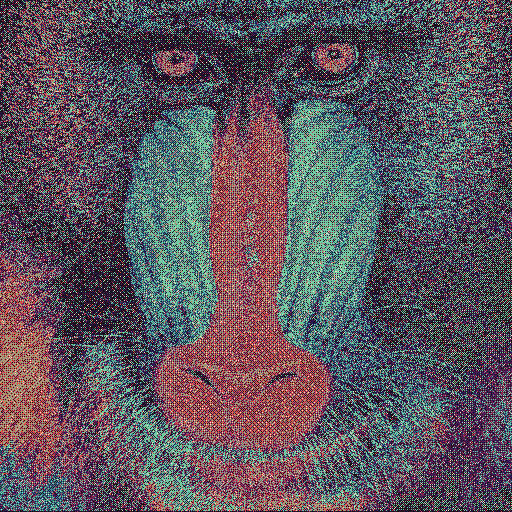
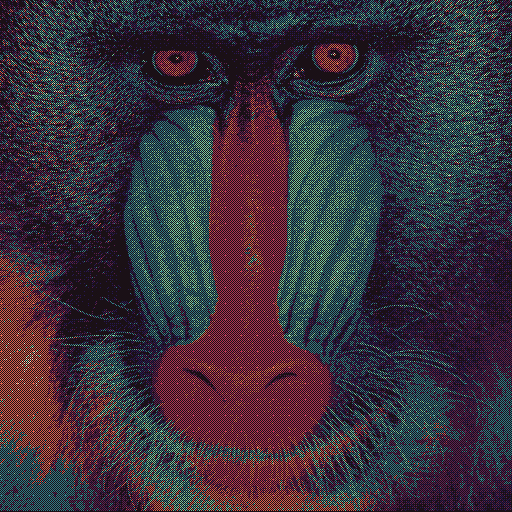
error diffusion: added serpentine dithering pattern, fixed bug where error-adjusted color would exceed 0-255 color range, added additional examples to READMDE

diff --git a/src/dither.cpp b/src/dither.cpp
@@ -168,7 +168,7 @@ void Dither::reduce(std::string name_mapping_method, std::string name_palette, b
     return;
 }
 
-void Dither::error_diffusion(std::string name_algorithm, std::string name_mapping_method, std::string name_palette, bool gamma_correction)
+void Dither::error_diffusion(std::string name_algorithm, std::string scan_pattern, std::string name_mapping_method, std::string name_palette, bool gamma_correction)
 {
     ErrorDiffusion error_diffusion = ErrorDiffusion(name_algorithm);
     Palette palette = Palette(name_palette);
@@ -194,42 +194,94 @@ void Dither::error_diffusion(std::string name_algorithm, std::string name_mappin
 
     for(std::size_t y = 0; y < image_height; y++)
     {
-        for(std::size_t x = 0; x < image_width; x++)
+        // alternate direction on odd rows
+        if(scan_pattern == "SERPENTINE" && y % 2 == 1)
         {
-            // set current pixel to nearest palette color (accounting for accumulated error)
-            Color color = image.get_pixel(x, y);
-
-            if(gamma_correction)
+            for(int x = image_width - 1; x >= 0; x--)
             {
-                color.to_linear(image.get_gamma());
-            }
-            
-            color.r += error_matrix[y][x][Color::INDEX_R];
-            color.g += error_matrix[y][x][Color::INDEX_G];
-            color.b += error_matrix[y][x][Color::INDEX_B];
+                // set current pixel to nearest palette color (accounting for accumulated error)
+                Color color = image.get_pixel(x, y);
 
-            Color palette_nearest;
-
-            palette_nearest = palette.nearest(color, name_mapping_method, color_range_image, color_range_palette, slope);
-
-            const std::vector<int> current_pixel_error = {color.r - palette_nearest.r, color.g - palette_nearest.g, color.b - palette_nearest.b};
-
-            for(std::size_t index_error = 0; index_error < error_diffusion.coordinates.size(); index_error++)
-            {
-                const std::size_t new_x = x + error_diffusion.coordinates[index_error].first;
-                const std::size_t new_y = y + error_diffusion.coordinates[index_error].second;
-
-                if(new_x < 0 || new_x >= image_width || new_y < 0 || new_y >= image_height)
+                if(gamma_correction)
                 {
-                    continue;
+                    color.to_linear(image.get_gamma());
+                }
+                
+                color.r += error_matrix[y][x][Color::INDEX_R];
+                color.g += error_matrix[y][x][Color::INDEX_G];
+                color.b += error_matrix[y][x][Color::INDEX_B];
+
+                color.r = std::clamp(color.r, 0, static_cast<int>(Color::CHANNEL_MAX));
+                color.g = std::clamp(color.g, 0, static_cast<int>(Color::CHANNEL_MAX));
+                color.b = std::clamp(color.b, 0, static_cast<int>(Color::CHANNEL_MAX));
+
+                Color palette_nearest;
+
+                palette_nearest = palette.nearest(color, name_mapping_method, color_range_image, color_range_palette, slope);
+
+                const std::vector<int> current_pixel_error = {color.r - palette_nearest.r, color.g - palette_nearest.g, color.b - palette_nearest.b};
+
+                for(std::size_t index_error = 0; index_error < error_diffusion.coordinates.size(); index_error++)
+                {
+                    const std::size_t new_x = x - error_diffusion.coordinates[index_error].first; // flip x when we are going backwards
+                    const std::size_t new_y = y + error_diffusion.coordinates[index_error].second;
+
+                    if(new_x < 0 || new_x >= image_width || new_y < 0 || new_y >= image_height)
+                    {
+                        continue;
+                    }
+
+                    error_matrix[new_y][new_x][Color::INDEX_R] += static_cast<int>(current_pixel_error[Color::INDEX_R] * error_diffusion.scalars[error_diffusion.coordinates[index_error]]);
+                    error_matrix[new_y][new_x][Color::INDEX_G] += static_cast<int>(current_pixel_error[Color::INDEX_G] * error_diffusion.scalars[error_diffusion.coordinates[index_error]]);
+                    error_matrix[new_y][new_x][Color::INDEX_B] += static_cast<int>(current_pixel_error[Color::INDEX_B] * error_diffusion.scalars[error_diffusion.coordinates[index_error]]);
                 }
 
-                error_matrix[new_y][new_x][Color::INDEX_R] += static_cast<int>(current_pixel_error[Color::INDEX_R] * error_diffusion.scalars[error_diffusion.coordinates[index_error]]);
-                error_matrix[new_y][new_x][Color::INDEX_G] += static_cast<int>(current_pixel_error[Color::INDEX_G] * error_diffusion.scalars[error_diffusion.coordinates[index_error]]);
-                error_matrix[new_y][new_x][Color::INDEX_B] += static_cast<int>(current_pixel_error[Color::INDEX_B] * error_diffusion.scalars[error_diffusion.coordinates[index_error]]);
+                image.set_pixel(palette_nearest, x, y);
             }
+        }
+        else
+        {
+            for(std::size_t x = 0; x < image_width; x++)
+            {
+                // set current pixel to nearest palette color (accounting for accumulated error)
+                Color color = image.get_pixel(x, y);
 
-            image.set_pixel(palette_nearest, x, y);
+                if(gamma_correction)
+                {
+                    color.to_linear(image.get_gamma());
+                }
+                
+                color.r += error_matrix[y][x][Color::INDEX_R];
+                color.g += error_matrix[y][x][Color::INDEX_G];
+                color.b += error_matrix[y][x][Color::INDEX_B];
+
+                color.r = std::clamp(color.r, 0, static_cast<int>(Color::CHANNEL_MAX));
+                color.g = std::clamp(color.g, 0, static_cast<int>(Color::CHANNEL_MAX));
+                color.b = std::clamp(color.b, 0, static_cast<int>(Color::CHANNEL_MAX));
+
+                Color palette_nearest;
+
+                palette_nearest = palette.nearest(color, name_mapping_method, color_range_image, color_range_palette, slope);
+
+                const std::vector<int> current_pixel_error = {color.r - palette_nearest.r, color.g - palette_nearest.g, color.b - palette_nearest.b};
+
+                for(std::size_t index_error = 0; index_error < error_diffusion.coordinates.size(); index_error++)
+                {
+                    const std::size_t new_x = x + error_diffusion.coordinates[index_error].first;
+                    const std::size_t new_y = y + error_diffusion.coordinates[index_error].second;
+
+                    if(new_x < 0 || new_x >= image_width || new_y < 0 || new_y >= image_height)
+                    {
+                        continue;
+                    }
+
+                    error_matrix[new_y][new_x][Color::INDEX_R] += static_cast<int>(current_pixel_error[Color::INDEX_R] * error_diffusion.scalars[error_diffusion.coordinates[index_error]]);
+                    error_matrix[new_y][new_x][Color::INDEX_G] += static_cast<int>(current_pixel_error[Color::INDEX_G] * error_diffusion.scalars[error_diffusion.coordinates[index_error]]);
+                    error_matrix[new_y][new_x][Color::INDEX_B] += static_cast<int>(current_pixel_error[Color::INDEX_B] * error_diffusion.scalars[error_diffusion.coordinates[index_error]]);
+                }
+
+                image.set_pixel(palette_nearest, x, y);
+            }
         }
     }
 

diff --git a/src/cli.cpp b/src/cli.cpp
@@ -41,7 +41,7 @@ bool CLI::parse(int argc, const char* argv[])
             ("g,grayscale", "Applies gamma correction the the input image", cxxopts::value<std::string>(), "<GRAYSCALE_WEIGHTS>")
             ("c,convolve", "Convolves the input image using the specified kernel", cxxopts::value<std::string>(), "<KERNEL>")
             ("r,reduce", "Reduces the image to the specified palette without applying dithering", cxxopts::value<std::vector<std::string>>(), "<MAPPING_METHOD>,<PALETTE>")
-            ("e,error_diffusion", "Dithers the image using the specified error diffusion algorithm and color mapping method", cxxopts::value<std::vector<std::string>>(), "<ERROR_DIFFUSION_ALGORITHM>,<MAPPING_METHOD>,<PALETTE>")
+            ("e,error_diffusion", "Dithers the image using the specified error diffusion algorithm and color mapping method", cxxopts::value<std::vector<std::string>>(), "<ERROR_DIFFUSION_ALGORITHM>,<SCAN_PATTERN>,<MAPPING_METHOD>,<PALETTE>")
             ("d,ordered", "Dithers the image using the specified threshold matrix and color mapping method", cxxopts::value<std::vector<std::string>>(), "<ORDERED_THRESHOLD_MATRIX>,<MAPPING_METHOD>,<PALETTE>")
             ("t,temporal", "Dithers the image over time using the specified temporal dithering method and color mapping method", cxxopts::value<std::vector<std::string>>(), "<TEMPORAL_METHOD>,<TEMPORAL_FRAMES>,<MAPPING_METHOD>,<PALETTE>")
             ("b,benchmark", "Displays benchmark information to stdout")
@@ -112,16 +112,17 @@ bool CLI::parse(int argc, const char* argv[])
         {
             std::size_t num_args = result["error_diffusion"].as<std::vector<std::string>>().size();
 
-            if(num_args != 3)
+            if(num_args != 4)
             {
-                std::cerr << "Error: Incorrect number of arguments for --error_diffusion flag. Expected 3, received " << num_args << "." << std::endl;
+                std::cerr << "Error: Incorrect number of arguments for --error_diffusion flag. Expected 4, received " << num_args << "." << std::endl;
                 return false;
             }
 
             error_diffusion = true;
             error_diffusion_algorithm = result["error_diffusion"].as<std::vector<std::string>>()[0];
-            mapping_method = result["error_diffusion"].as<std::vector<std::string>>()[1];
-            palette = result["error_diffusion"].as<std::vector<std::string>>()[2];
+            error_diffusion_scan_pattern = result["error_diffusion"].as<std::vector<std::string>>()[1];
+            mapping_method = result["error_diffusion"].as<std::vector<std::string>>()[2];
+            palette = result["error_diffusion"].as<std::vector<std::string>>()[3];
         }
 
         if(result.count("ordered"))
@@ -191,6 +192,7 @@ std::string CLI::to_string()
     output += "error_diffusion: ";
     output += error_diffusion ? "true\n" : "false\n";
     output += "error_diffusion_algorithm: " + error_diffusion_algorithm + "\n";
+    output += "error_diffusion_scan_pattern: " + error_diffusion_scan_pattern + "\n";
     output += "ordered: ";
     output += ordered ? "true\n" : "false\n";
     output += "ordered_threshold_matrix: " + ordered_threshold_matrix + "\n";

diff --git a/include/dither.h b/include/dither.h
@@ -23,7 +23,7 @@ public:
     void grayscale(std::string name_grayscale_weights, bool gamma_correction);
     void convolve(std::string name_kernel);
     void reduce(std::string name_mapping_method, std::string name_palette, bool gamma_correction);
-    void error_diffusion(std::string name_algorithm, std::string name_mapping_method, std::string name_palette, bool gamma_correction);
+    void error_diffusion(std::string name_algorithm, std::string scan_pattern, std::string name_mapping_method, std::string name_palette, bool gamma_correction);
     void ordered(std::string name_threshold_matrix, std::string name_mapping_method, std::string name_palette, bool gamma_correction);
     void temporal(std::string name_temporal_method, std::size_t frames, std::string name_mapping_method, std::string name_palette, bool gamma_correction);
 

diff --git a/src/color.cpp b/src/color.cpp
@@ -54,9 +54,9 @@ Color Color::add(const Color& other) const
     return Color(this->r + other.r, this->g + other.g, this->b + other.b, std::max(this->a, other.a));
 }
 
-int Color::distance_euclidean_squared(Color other)
+int Color::distance_euclidean_squared(Color other, std::vector<double> channel_weights)
 {
-    return ((other.r - this->r) * (other.r - this->r)) + ((other.g - this->g) * (other.g - this->g)) + ((other.b - this->b) * (other.b - this->b));
+    return (channel_weights[INDEX_R] * (other.r - this->r) * (other.r - this->r)) + (channel_weights[INDEX_G] * (other.g - this->g) * (other.g - this->g)) + (channel_weights[INDEX_B] * (other.b - this->b) * (other.b - this->b));
 }
 
 double Color::distance_euclidean(Color other)

diff --git a/src/main.cpp b/src/main.cpp
@@ -39,7 +39,7 @@ int main(int argc, const char* argv[])
 
     if(cli.error_diffusion)
     {
-        dither.error_diffusion(cli.error_diffusion_algorithm, cli.mapping_method, cli.palette, cli.gamma_correction);
+        dither.error_diffusion(cli.error_diffusion_algorithm, cli.error_diffusion_scan_pattern, cli.mapping_method, cli.palette, cli.gamma_correction);
     }
 
     if(cli.ordered)

diff --git a/include/color.h b/include/color.h
@@ -31,7 +31,7 @@ public:
     bool equals(const Color& other) const;
     Color add(const Color& other) const;
 
-    int distance_euclidean_squared(Color other);
+    int distance_euclidean_squared(Color other, std::vector<double> channel_weights = {0.2126, 0.7152, 0.0722});
     double distance_euclidean(Color other);
     int distance_manhattan(Color other);
 

diff --git a/include/cli.h b/include/cli.h
@@ -23,6 +23,7 @@ public:
     bool reduce;
     bool error_diffusion;
     std::string error_diffusion_algorithm;
+    std::string error_diffusion_scan_pattern;
     bool ordered;
     std::string ordered_threshold_matrix;
     bool temporal;

diff --git a/README.md b/README.md
@@ -16,9 +16,9 @@ Use the `dither` command followed by the input and output flags and any number o
 | `-g, --grayscale <GRAYSCALE_WEIGHTS>` | Converts the input image to grayscale using the specified channel weights | Optional |
 | `-c, --convolve <KERNEL>` | Convolves the input image using the specified kernel | Optional |
 | `-r, --reduce <MAPPING_METHOD>,<PALETTE>` | Reduces the image to the specified palette without applying dithering | Optional |
-| `-e, --error_diffusion <ALGORITHM>,<MAPPING_METHOD>,<PALETTE>` | Dithers the image using the specified error diffusion algorithm and color mapping method | Optional |
+| `-e, --error_diffusion <ALGORITHM>,<SCAN_PATTERN>,<MAPPING_METHOD>,<PALETTE>` | Dithers the image using the specified error diffusion algorithm and color mapping method | Optional |
 | `-d, --ordered <THRESHOLD_MATRIX>,<MAPPING_METHOD>,<PALETTE>` | Dithers the image using the specified threshold matrix and color mapping method | Optional |
-| `t, --temporal <TEMPORAL_METHOD>,<TEMPORAL_FRAMES>,<MAPPING_METHOD>,<PALETTE>` | Dithers the image temporally using the specified temporal dithering method, color mapping method, and number of frames. Output can be saved to .gif or .png | Optional |
+| `-t, --temporal <TEMPORAL_METHOD>,<TEMPORAL_FRAMES>,<MAPPING_METHOD>,<PALETTE>` | Dithers the image temporally using the specified temporal dithering method, color mapping method, and number of frames. Output can be saved to .gif or .png | Optional |
 | `-b, --benchmark` | Displays benchmark information to stdout | Optional |
 
 ### Grayscale
@@ -104,6 +104,13 @@ Algorithm options when using the `-e, --error_diffusion` flag. The input image w
 | `SIERRA_TWO_ROW` | {0, 0, X, 4, 3}<br/>{1, 2, 3, 2, 1}<br/>(1 / 16) |
 | `SIERRA_LITE` | {0, X, 2}<br/>{1, 1, 0}<br/>(1 / 4) |
 
+### Error Diffusion Scan Patterns
+Scan Pattern options when using the `-e, --error_diffusion` flag. The scan pattern determines the order in which pixels are processed or quantized in the image.
+| SCAN_PATTERN | Description |
+| :-- | :-- |
+| `RASTER` | Pixels will be quantized from left to right, starting at the top row and working down |
+| `SERPENTINE` | Pixels will be quantized from left to right on odd rows and right to left on even rows, starting at the top row and working down |
+
 ### Ordered Threshold Matrixes
 Threshold matrix (or "map") options when using the `-d, --ordered` flag. The input image will be quantized against the threshold map specified by the option.<br/>
 [Bayer](https://en.wikipedia.org/wiki/Ordered_dithering#Threshold_map) pattern threshold matrixes produce even results but leave noticable patterns in the output image. Bayer matrixes larger than 8x8 are unlikely to produce better results, since an 8x8 bayer matrix contains every possible value (0-255) of an sRGB encoded image.<br/>
@@ -172,8 +179,8 @@ The below examples are executed from the root directory. `dither` can be used in
 `.\bin\dither.exe -i .\input\baboon.png -o .\output\baboon_grayscale_bt709.png -g BT709`</br>
 `.\bin\dither.exe -i .\input\boat.png -o .\output\boat_reduce_twilight5.png -r MANHATTAN_DISTANCE,TWILIGHT5`</br>
 `.\bin\dither.exe -i .\input\lena.png -o .\output\lena_convolve_unsharp_mask.png -c UNSHARP_MASK`</br>
-`.\bin\dither.exe -i .\input\lena.png -o .\output\lena_error_diffusion_atkinson_.png -e ATKINSON,EUCLIDEAN_DISTANCE,MIDNIGHT_ABLAZE -a`</br>
-`.\bin\dither.exe -i .\input\lena.png -o .\output\lena_error_diffusion_atkinson_midnight_blaze.png -e ATKINSON,EUCLIDEAN_DISTANCE,MIDNIGHT_ABLAZE -a`</br>
+`.\bin\dither.exe -i .\input\earth.png -o .\output\earth_error_diffusion_jarvice-judice-ninke_raster_twilight5.png -e JARVICE_JUDICE_NINKE,RASTER,EUCLIDEAN_DISTANCE,TWILIGHT5`</br>
+`.\bin\dither.exe -i .\input\lena.png -o .\output\lena_error_diffusion_atkinson_serpentine_midnight_ablaze.png -e ATKINSON,SERPENTINE,EUCLIDEAN_DISTANCE,MIDNIGHT_ABLAZE -a`</br>
 `.\bin\dither.exe -i .\input\peppers.png -o .\output\peppers_ordered_blue_noise_64x64_cherrymelon.png -d BLUE_NOISE_64X64,EUCLIDEAN_DISTANCE,.\data\palettes\cherrymelon.csv`</br>
 `.\bin\dither.exe -i .\input\baboon.png -o .\output\baboon_ordered_bayer_16x16_witching-hour.png -d BAYER_16X16,EUCLIDEAN_DISTANCE,.\data\palettes\witching-hour.csv -a`</br>
 `.\bin\dither.exe -i .\input\tulips.png -o .\output\tulips_temporal_pwm_slso8.gif -t PWM,8,EUCLIDEAN_DISTANCE,SLSO8 -a`</br>
